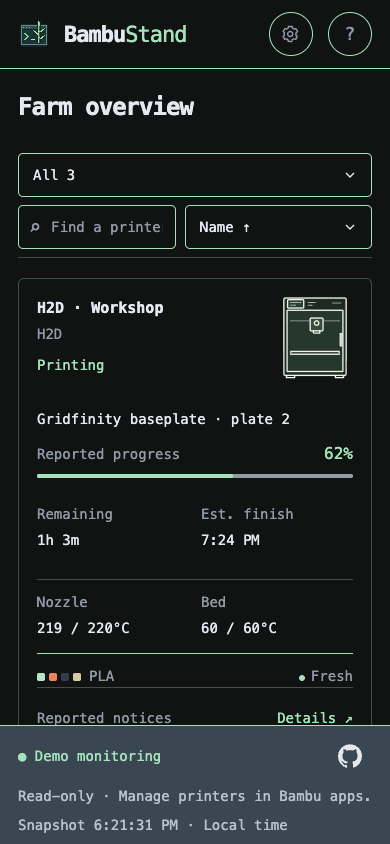
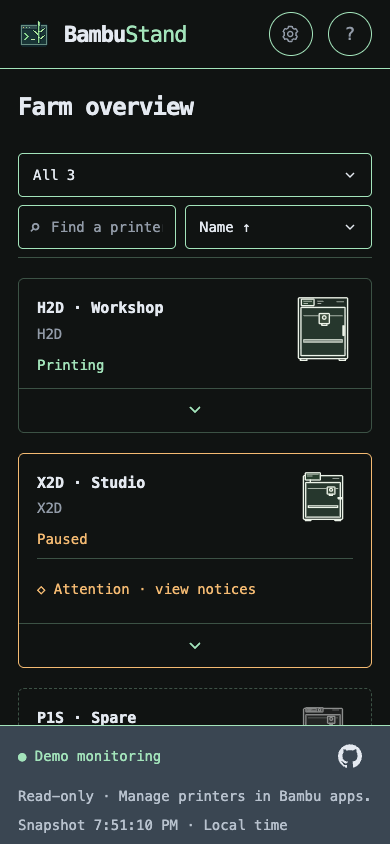
Add expandable mobile printer cards for v0.11.0 (#188)
* Add expandable mobile printer cards for v0.11.0

* Associate mobile disclosure with revealed card actions

* Move mobile card disclosure into a compact footer

* Preserve visible focus through mobile disclosure and resize

* Transfer card focus when responsive controls become hidden

diff --git a/internal/webserver/assets/app.js b/internal/webserver/assets/app.js
@@ -27,6 +27,8 @@ const detailTabs = ["status", "filament", "notices"];
 let detailTab = "status", detailScroll = {};
 let selectedSlot = null, readingExpanded = false, detailIdentity = "";
 let restoringCardFocus = false;
+// Browser-local presentation only; retained while filtering/sorting this page.
+const expandedCards = new Set();
 let detailOpener = null;
 let csrfToken = null;
 let snapshot = null,
@@ -124,17 +126,20 @@ function card(p) {
   const offline = p.online === false;
   const label = offline ? "Offline" : status(p);
   const action = (text, kind = "name") => `<button data-action="${kind}" data-open="${escapeHTML(p.id)}" aria-haspopup="dialog"${kind === "notices" ? ' data-notices="true"' : ''}>${text}</button>`;
+  const expanded = expandedCards.has(p.id);
+  const bodyID = `card-body-${encodeURIComponent(p.id)}`;
+  const toggle = `<button class="card-toggle" data-action="expand" data-open="${escapeHTML(p.id)}" aria-expanded="${expanded}" aria-controls="${escapeHTML(bodyID)} ${escapeHTML(bodyID)}-actions" aria-label="${expanded ? "Collapse" : "Expand"} ${escapeHTML(p.name)} card"><svg viewBox="0 0 12 8" aria-hidden="true"><path d="m1 1 5 5 5-5"/></svg></button>`;
   const heading = `<div class="card-head"><div class="card-identity"><h3>${action(escapeHTML(p.name))}</h3><div class="model">${escapeHTML(p.model || "Unknown model")}</div><span class="pill ${p.attention || !current(p) ? "warn" : p.state === "IDLE" ? "neutral" : ""}">${escapeHTML(label)}</span></div><div class="printer-view">${machine(p)}</div></div>`;
-  const actions = `<div class="card-actions">${p.attention ? action('◇ Attention · view notices', 'notices') : `<span>${p.conditions.some(condition => !condition.hidden) ? 'Reported notices' : 'No active notices'}</span>`}${action('Details ↗', 'details')}</div>`;
-  const opening = `<article class="card ${p.attention ? "warning" : ""}${offline ? " offline" : ""}" data-id="${escapeHTML(p.id)}" tabindex="-1" aria-label="Inspect ${escapeHTML(p.name)}, ${escapeHTML(label)}">`;
-  if (offline) return `${opening}${heading}${actions}</article>`;
+  const actions = `<div class="card-actions" id="${escapeHTML(bodyID)}-actions">${p.attention ? action('◇ Attention · view notices', 'notices') : `<span>${p.conditions.some(condition => !condition.hidden) ? 'Reported notices' : 'No active notices'}</span>`}${action('Details ↗', 'details')}</div>`;
+  const opening = `<article class="card ${p.attention ? "warning" : ""}${offline ? " offline" : ""}${expanded ? " expanded" : ""}" data-id="${escapeHTML(p.id)}" tabindex="-1" aria-label="Inspect ${escapeHTML(p.name)}, ${escapeHTML(label)}">`;
+  if (offline) return `${opening}${heading}<div class="card-body" id="${escapeHTML(bodyID)}"></div>${actions}${toggle}</article>`;
   const slots = allSlots(p).filter((s) => s.present !== false),
     nozzle = p.nozzles.find((n) => n.active) || p.nozzles[0];
   const progress = Number.isFinite(p.progress) ? Math.max(0, Math.min(100, p.progress)) : null;
   const idle = p.state === "IDLE";
   const finish = p.state === "RUNNING" && p.remaining != null && Number.isFinite(Date.parse(p.remaining_reported))
     ? new Date(Date.parse(p.remaining_reported) + p.remaining * 60000).toLocaleTimeString(undefined, {hour: "numeric", minute: "2-digit"}) : "Unavailable";
-  return `${opening}${heading}${!current(p) ? '<p class="card-note telemetry-note">Current state unconfirmed · readings are last-known; missing values remain unknown.</p>' : ""}<div class="job">${idle ? "No active print" : escapeHTML(p.job || "No reported job")}</div>${idle ? "" : `<div class="progress-label"><span>Reported progress</span><strong>${progress === null ? "Unknown" : progress + "%"}</strong></div><div class="progress-track"><span style="width:${progress || 0}%"></span></div><div class="metrics timing"><div>Remaining<strong>${escapeHTML(remaining(p))}</strong></div><div>Est. finish<strong>${finish !== "Unavailable" && (!current(p) || !p.eta_current) ? "Last-known: " : ""}${escapeHTML(finish)}</strong></div></div>`}<div class="metrics"><div>Nozzle<strong>${temperature(nozzle?.temperature)}</strong></div><div>Bed<strong>${temperature(p.bed)}</strong></div></div><div class="card-bottom"><div class="swatches">${slots.slice(0, 4).map(s => swatch(s.color)).join("")}<span>${escapeHTML(slots[0]?.material || "Unknown material")}</span></div><span>${current(p) ? '<i class="green"></i>Fresh' : "◷ Last-known"}</span></div>${actions}</article>`;
+  return `${opening}${heading}${!current(p) ? '<p class="card-note telemetry-note">Current state unconfirmed · readings are last-known; missing values remain unknown.</p>' : ""}<div class="card-body" id="${escapeHTML(bodyID)}"><div class="job">${idle ? "No active print" : escapeHTML(p.job || "No reported job")}</div>${idle ? "" : `<div class="progress-label"><span>Reported progress</span><strong>${progress === null ? "Unknown" : progress + "%"}</strong></div><div class="progress-track"><span style="width:${progress || 0}%"></span></div><div class="metrics timing"><div>Remaining<strong>${escapeHTML(remaining(p))}</strong></div><div>Est. finish<strong>${finish !== "Unavailable" && (!current(p) || !p.eta_current) ? "Last-known: " : ""}${escapeHTML(finish)}</strong></div></div>`}<div class="metrics"><div>Nozzle<strong>${temperature(nozzle?.temperature)}</strong></div><div>Bed<strong>${temperature(p.bed)}</strong></div></div><div class="card-bottom"><div class="swatches">${slots.slice(0, 4).map(s => swatch(s.color)).join("")}<span>${escapeHTML(slots[0]?.material || "Unknown material")}</span></div><span>${current(p) ? '<i class="green"></i>Fresh' : "◷ Last-known"}</span></div></div>${actions}${toggle}</article>`;
 }
 // Keep connected card/image elements across polls. Replacing #cards.innerHTML
 // recreates lazy, async-decoded images even when their immutable URL is unchanged.
@@ -493,6 +498,27 @@ document.addEventListener("keydown", (event) => {
   selectDetailTab(detailTabs[next], true);
 });
 document.addEventListener("click", (event) => {
+  const toggle = event.target.closest(".card-toggle");
+  if (toggle) {
+    const id = toggle.dataset.open;
+    if (expandedCards.has(id)) expandedCards.delete(id);
+    else expandedCards.add(id);
+    render();
+    // Explicit keyboard disclosure is navigation; passive telemetry renders are not.
+    if (event.detail === 0) requestAnimationFrame(() => {
+      const target = document.querySelector(`button[data-open="${CSS.escape(id)}"][data-action="expand"]`);
+      if (document.activeElement !== target) return;
+      target.scrollIntoView({block: "nearest", inline: "nearest"});
+      requestAnimationFrame(() => {
+        const shell = $(".shell"), toolbar = $(".toolbar");
+        if (document.activeElement !== target || !shell || !toolbar || shell.classList.contains("toolbar-scrolls")) return;
+        const top = Math.max(shell.getBoundingClientRect().top, toolbar.getBoundingClientRect().bottom) + 8;
+        const focusedTop = target.getBoundingClientRect().top;
+        if (focusedTop < top) shell.scrollTop += focusedTop - top;
+      });
+    });
+    return;
+  }
   const tab = event.target.closest("[data-detail-tab]");
   if (tab) { selectDetailTab(tab.dataset.detailTab, true); return; }
   const slot = event.target.closest("[data-slot-key]");
@@ -549,7 +575,11 @@ $("#detail").addEventListener("close", () => {
       ? `button[data-open="${CSS.escape(opener.printer)}"][data-action="${CSS.escape(opener.action)}"]`
       : `.card[data-id="${CSS.escape(opener.printer)}"]`)
     : opener?.element?.isConnected ? opener.element : null;
-  (target || activeFilterControl())?.focus({preventScroll: true});
+  const visibleTarget = target?.getClientRects().length ? target : null;
+  const name = target && opener?.printer
+    ? document.querySelector(`button[data-open="${CSS.escape(opener.printer)}"][data-action="name"]`) : null;
+  const visibleName = name?.getClientRects().length ? name : null;
+  (visibleTarget || visibleName || activeFilterControl())?.focus({preventScroll: true});
   detailOpener = null;
 });
 $("#close-detail").onclick = () => $("#detail").close();
@@ -601,6 +631,13 @@ function setupWorkspaceLayout() {
   // Reflow can change header, toolbar, and footer heights (including 200% text).
   const observer = new ResizeObserver(measure);
   for (const element of [shell, header, toolbar]) observer.observe(element);
+  // Responsive CSS can blur an action before the resize event runs.
+  shell.addEventListener("focusout", event => {
+    const action = event.target.closest("button[data-open]");
+    if (!action || event.relatedTarget || !action.isConnected || action.getClientRects().length) return;
+    const name = action.closest(".card")?.querySelector('[data-action="name"]');
+    if (name?.getClientRects().length) name.focus();
+  });
   shell.addEventListener("focusin", event => {
     const card = event.target.closest(".card");
     if (!card || restoringCardFocus) return;

diff --git a/internal/webserver/assets/index.html b/internal/webserver/assets/index.html
@@ -185,7 +185,7 @@
         The Filament tab shows per-unit reported drying status and remaining minutes. Missing values stay unknown; old readings are last-known. Drying settings describe configuration, and the original AMS has no active dryer. Monitoring cannot start or stop drying.
       </p>
       <p>
-        Filters and sorting preserve your printer selection as updates arrive. The Active filter includes printers last reported as running, independently of availability. The Idle filter includes only currently available online printers explicitly reporting Idle or Finished. Offline, stale, missing, and unknown states are excluded; a finished job does not establish that the build plate is clear. Search matches printer names and models. Each status count reflects that search independently of the selected status. On narrow screens, use the Status selector.
+        Filters and sorting preserve your printer selection as updates arrive. The Active filter includes printers last reported as running, independently of availability. The Idle filter includes only currently available online printers explicitly reporting Idle or Finished. Offline, stale, missing, and unknown states are excluded; a finished job does not establish that the build plate is clear. Search matches printer names and models. Each status count reflects that search independently of the selected status. On narrow screens, use the Status selector. Cards start collapsed; use the small footer chevron to expand inline readings or collapse them again. Expansion choices last for this page session, including updates, filtering, sorting, and resizing. Keyboard expansion and collapse keep the focused footer in view. If resizing hides the focused chevron or Details button, focus moves to that printer name. If resizing hides Details while inspection is open, closing returns focus to the printer name. Desktop shows full cards. Attention and unavailable-data warnings remain visible when collapsed; the printer name opens Overview.
       </p>
       <p>
         Scrolling the farm compacts the header. The filter, search, and sort toolbar

diff --git a/internal/webserver/assets/style.css b/internal/webserver/assets/style.css
@@ -1417,3 +1417,21 @@ footer { gap: 8px 16px; padding: 8px 32px; font-size: .875rem; }
 @media (max-height: 360px) {
   #detail #close-detail { width: 44px; height: 44px; }
 }
+
+/* Mobile cards disclose telemetry without changing desktop presentation. */
+.card-body { display: flex; flex-direction: column; min-width: 0; }
+.card-toggle { display: none; }
+@media (max-width: 760px) {
+  .card-head { grid-template-columns: minmax(0, 1fr) 60px; gap: 8px; margin-bottom: 0; }
+  .card-head .printer-view, .card-head .printer-view .printer-sprite,
+  .card-head .printer-view svg { width: 60px; height: 76px; }
+  .card-toggle { display: inline-flex; align-items: center; justify-content: center; width: calc(100% + 36px); min-height: 44px; margin: 12px -18px -18px; padding: 0; background: none; border: 0; border-top: 1px solid color-mix(in srgb, var(--border) 30%, transparent); border-radius: 0 0 5px 5px; color: var(--green); }
+  .card-toggle svg { width: 12px; height: 8px; fill: none; stroke: currentColor; stroke-width: 2; }
+  .card.expanded .card-toggle svg { transform: rotate(180deg); }
+  .card:not(.expanded) .card-body,
+  .card:not(.expanded) .card-actions > span,
+  .card:not(.expanded) [data-action="details"] { display: none; }
+  .card:not(.expanded):not(.warning) .card-actions { display: none; }
+  .card.expanded .card-body { margin-top: 16px; }
+  .card.warning .card-actions { margin-top: 8px; }
+}

diff --git a/internal/buildinfo/buildinfo.go b/internal/buildinfo/buildinfo.go
@@ -4,7 +4,7 @@ import "fmt"
 
 // Release builds inject these through -ldflags. Direct go builds remain useful.
 var (
-	Version = "0.10.1"
+	Version = "0.11.0"
 	Commit  = "unknown"
 	Date    = "unknown"
 )

diff --git a/docs/development/validation.md b/docs/development/validation.md
@@ -7,11 +7,39 @@ This record identifies checks actually performed, their source revisions, observ
 Historical entries were consolidated from the [record at `2e9f74a`](https://github.com/cliffom/bambustand/blob/2e9f74a/docs/development/validation.md). Consolidation adds no new product validation. A local pass reported below is a historical report, not a retained test log or a rerun against the current release. Linked CI runs and repository captures are inspectable evidence; temporary capture paths and user-supplied screenshots without repository links were not archived here. Missing environment or revision details are stated rather than reconstructed. Historical names and compatibility results apply to the revision checked.
 
 
+## Responsive card focus transfer (PR #188 review)
+
+- **Scope:** 2026-11-13; v0.11.0, uncommitted changes based on `430cefa996b1`. Resolves the follow-up P2 finding that crossing the mobile breakpoint can hide the focused chevron or Details action and reset browser focus to the body.
+- **Method:** Same macOS 27.2.1 arm64, Go 1.27.4, Node 24.22.1, Playwright 1.64.1 and Chrome 157.0.8103.78 environment as the prior focus entry below; synthetic demo on port 8187. Extended the four disclosure cases (390×844, 760×844, 320×568/200%, 568×320/200%) with focused-footer → 844×390 desktop/name, focused desktop Details → collapsed mobile/name, subsequent polling, still-visible expanded Details, and unrelated search focus. Ran all 51 browser units, 36 existing layout cases plus two compact/four disclosure cases, twelve inspector cases, `make fmt-check lint test check build` with pinned lint, `make docs-check` and diff checks. Visually inspected post-resize name-focus captures at 390×844 and 320×568/200% for the same printer, visible focus and usable card layout.
+- **Result:** The new mobile-to-desktop regression timed out against the previous head. All final checks passed. Hidden connected card actions now transfer focus to their printer name on blur; visible actions and search keep focus, expansion choices survive resizing, polling preserves the fallback, and modal resize/close regressions still pass. Updated usage, browser Help, UI direction and contributor guidance. README, farm-view guidance, changelog and maintained browser/TUI screenshots remain accurate because these fixes only alter focus recovery at a breakpoint; their card layouts, readings and controls are unchanged, and they do not depict focus on a control being hidden. v0.11.0 remains prepared without another version bump.
+- **Limits:** Synthetic Chromium evidence only; other browser engines, physical mobile devices and live hardware remain unverified. Temporary logs/captures under `/private/tmp/188-resize-*` are unarchived. Prior packaging/vulnerability evidence retains its revision boundaries; dependencies and packaging are unchanged. Existing [remaining live checks](#remaining-live-checks) retain their scope.
+
+## Mobile disclosure and inspector focus corrections (PR #188 review)
+
+- **Scope:** 2026-11-13; v0.11.0, uncommitted review fixes based on `d274548b2015`. Addresses the conversation review’s two P2 findings: keyboard disclosure can move the focused footer behind the status bar, and closing after desktop-to-mobile resize can attempt focus on a hidden Details opener.
+- **Method:** macOS 27.2.1 arm64, Go 1.27.4, Node 24.22.1, Playwright 1.64.1, Chrome 157.0.8103.78, synthetic demo on port 8187. Added actual focus/viewport bounds after keyboard expansion and collapse in the four disclosure cases (390×844, 760×844, 320×568/200%, 568×320/200%), and a desktop Details → mobile resize → Escape/name-focus regression in all twelve inspector size/text cases. Ran 51 browser units, the 36 existing layout cases plus two compact/four disclosure cases, all twelve inspector cases, `make fmt-check lint test check build` with pinned lint, `make docs-check` and diff checks. Visually inspected temporary keyboard-focused captures at 390×844, 320×568/200% and 568×320/200% for footer visibility above the status bar and below pinned controls.
+- **Result:** Both new regressions failed against the previous head: disclosure focus bounds timed out, and inspector close left focus on the body. All final checks passed. Keyboard disclosure explicitly reveals its footer after reflow; passive monitoring renders retain their existing scroll behavior. Hidden openers fall back to the same printer name; removed actions retain the existing status-control fallback, verified by the inspector suite after catching an intermediate fallback regression. Updated usage, browser Help, UI direction and contributor test guidance. README, farm-view guide, changelog and current desktop/mobile/theme/Settings/inspector/TUI captures remain accurate: these fixes change navigation/scroll recovery rather than card geometry, shown readings or controls. The maintained expanded capture already shows the footer visible above the status bar; no timestamp-only regeneration is needed. v0.11.0 remains the prepared release version.
+- **Limits:** Synthetic Chromium evidence only; Safari/Firefox, physical mobile devices and live hardware remain unverified. Temporary logs/captures under `/private/tmp/188-resolve-*` are unarchived. Packaging/signing and vulnerability evidence remain scoped to the prior entries; these fixes do not alter packaging or dependencies. Existing [remaining live checks](#remaining-live-checks) retain their scope.
+
+## Mobile card footer refinement (#187)
+
+- **Scope:** 2026-11-13; v0.11.0 PR #188 follow-up to the owner's screenshot, with uncommitted changes based on `db8e7efecfa0`. Moves mobile disclosure from a boxed control beside the printer image to a full-width bottom footer with a small centered SVG chevron. Desktop stays unchanged.
+- **Method:** Same macOS 27.2.1, Go 1.27.4, Node 24.22.1, Playwright 1.64.1 and Chrome 157.0.8103.78 environment as the entry below; synthetic demo at port 8187. Reran 51 browser units, 36 layout cases plus two compact and four disclosure cases, twelve inspector cases, and 28 theme/layout combinations at the sizes/text settings listed below. Added assertions that the footer is the last card child, below the heading, centered across the card, with a 12×8px icon and at least a 44px tap height. Ran formatting, pinned lint, vet, build, release packaging, documentation and diff checks. Refreshed and visually inspected all four 390×844 mobile captures, including expanded footer visibility and the Gruvbox Dark finished card.
+- **Result:** All checks passed. The small chevron points down when collapsed and up when expanded; the unboxed footer retains keyboard focus, accessible labels/state, touch sizing, warnings and page-session expansion choices. Current captures: [overview](../../assets/screenshots/browser-mobile.png), [expanded footer](../../assets/screenshots/browser-mobile-expanded.png), [offline](../../assets/screenshots/browser-mobile-offline.png), [finished](../../assets/screenshots/browser-idle-filter-mobile.png). Earlier captures remain under `before-footer` names with historical links redirected. README, farm-view/usage guidance, browser Help, UI direction and changelog now describe the footer; desktop/theme/filter, cropped Settings/inspector and TUI captures remain accurate because they do not depict this mobile control. v0.11.0 remains prepared and unpublished; no additional version bump is needed.
+- **Limits:** Synthetic Chromium evidence only; other browsers, physical mobile devices and live hardware remain unverified. Full race tests and vulnerability scan passed on the prior implementation as recorded below; this refinement changes browser markup/style only. Packaging remains locally ad-hoc signed without notarization or Gatekeeper evidence. Temporary logs are unarchived; existing [remaining live checks](#remaining-live-checks) are unchanged.
+
+## Mobile printer card disclosure (#187)
+
+- **Scope:** 2026-11-13; v0.11.0, uncommitted changes based on `dd52e549d139`. Mobile/narrow browser cards default to identity/status summaries with inline expansion; desktop presentation, telemetry interpretation, offline omissions and notice decisions retain their existing contracts.
+- **Method:** macOS 27.2.1 (26B131) arm64, Go 1.27.4, Node 24.22.1, Playwright 1.64.1 and Chrome 157.0.8103.78. Ran 51 dependency-free browser units, 36 existing layout cases plus two compact scenarios, four new disclosure scenarios (390×844, 760×844, 320×568/200%, 568×320/200%), twelve inspector cases, and 28 theme/layout combinations against synthetic `serve --demo` on port 8187. Disclosure checks cover running, idle, finished, attention, unknown/stale, offline, long names, generic artwork, keyboard activation, focus/image continuity, polling, filtering, sorting, resize and inspector entry. Ran `make fmt-check`, pinned lint, `make test check build vuln-check release`, `make docs-check`, version output and diff checks. Refreshed the three affected 390×844 gallery captures and added an expanded example with the documented capture command/filter; inspected all four. Also inspected temporary 320×568/200% collapsed and 568×320/200% expanded views, and a contact sheet of default/all five alternate desktop theme captures at 1280×1200.
+- **Result:** All listed checks passed; no lint findings or known vulnerabilities. Mobile summaries retain attention and unavailable-data warnings, and expansion remains local to printer identity within the page session. Four macOS/Linux arm64/amd64 archives passed inventory, documentation, helper architecture and signature checks; the binary reports 0.11.0. Initial lint stopped because the executable was absent; installing the pinned tool resolved it. Initial packaging rejected the new changelog heading's leading `v`; matching the repository heading format resolved it. Updated README, usage/farm-view guidance, browser Help, UI direction and contributor guidance. Current captures: [mobile overview](../../assets/screenshots/browser-mobile-before-footer.png), [expanded](../../assets/screenshots/browser-mobile-expanded-before-footer.png), [offline](../../assets/screenshots/browser-mobile-offline-before-footer.png), [Gruvbox Dark Idle](../../assets/screenshots/browser-idle-filter-mobile-before-footer.png). Preserved prior mobile captures under `before-187` names and redirected affected historical evidence. Desktop/theme/filter captures remain accurate because full cards and controls retain their presentation; cropped Settings/inspector and TUI help/captures do not depict mobile farm disclosure and remain accurate.
+- **Limits:** Synthetic Chromium checks only; Safari/Firefox, physical mobile devices, live cloud/hardware and OS notification presentation remain unverified. Enlarged text in very short/narrow windows requires the existing page/workspace scrolling fallback; inspection does not establish every scroll position or font. Temporary logs and additional inspection captures under `/private/tmp/187-*` are unarchived. Packaging is locally ad-hoc signed, without notarization or clean-machine Gatekeeper evidence; no release is published. Existing [remaining live checks](#remaining-live-checks) retain their scope.
+
 ## Status toolbar spacing and mobile label refinement (#185)
 
 - **Scope:** 2026-11-13; v0.10.1 follow-up to the owner's desktop/mobile screenshots, with uncommitted changes based on `b1366a85ad4c`. Adds 0.75rem horizontal padding to desktop status buttons and hides the mobile Status label visually while retaining its accessible name.
 - **Method:** Same macOS 27.2.1, Go 1.27.4, Node 24.22.1, Playwright 1.64.1 and Chrome 157.0.8103.78 environment as the entry below. Ran all 50 browser units, the 36 layout cases plus two compact scenarios and 28 theme/layout combinations using the same sizes/states/themes listed below. Added checks for desktop horizontal padding, accessible Status naming, a visually hidden label and full-width mobile dropdown alignment. Built the embedded assets and reran `make release`, `make docs-check` and diff checks. Port 8080 was occupied by a non-demo server; acceptance/capture scripts refused that endpoint, then ran against synthetic `serve --demo` at port 8185. Refreshed the same twelve affected gallery images with the documented capture tool/filter and visually inspected all twelve for spacing, counts, mobile width, focus outlines and clipping.
-- **Result:** Browser units, layout/theme cases, packaging and documentation checks passed. Desktop labels/counts have more separation; mobile status selection uses the full row without a visible prefix, with its accessible Status name retained. Updated usage/UI direction and release notes; representative captures are [desktop](../../assets/screenshots/browser.png), [mobile](../../assets/screenshots/browser-mobile.png) and [mobile Idle](../../assets/screenshots/browser-idle-filter-mobile.png). Earlier results below retain their referenced pre-spacing captures. README caption, browser Help, cropped Settings/inspector captures, TUI help/captures and farm-view guidance remain accurate because none promise a visible Status prefix or specific button spacing. v0.10.1 remains the prepared release version.
+- **Result:** Browser units, layout/theme cases, packaging and documentation checks passed. Desktop labels/counts have more separation; mobile status selection uses the full row without a visible prefix, with its accessible Status name retained. Updated usage/UI direction and release notes; representative captures are [desktop](../../assets/screenshots/browser.png), [mobile](../../assets/screenshots/browser-mobile-before-187.png) and [mobile Idle](../../assets/screenshots/browser-idle-filter-mobile-before-187.png). Earlier results below retain their referenced pre-spacing captures. README caption, browser Help, cropped Settings/inspector captures, TUI help/captures and farm-view guidance remain accurate because none promise a visible Status prefix or specific button spacing. v0.10.1 remains the prepared release version.
 - **Limits:** Synthetic Chromium evidence only; other browsers, real mobile devices and live hardware remain unverified. Packaging remains locally ad-hoc signed without notarization/Gatekeeper evidence. Temporary acceptance logs/captures under `/private/tmp/185-spacing-*` are unarchived; existing [remaining live checks](#remaining-live-checks) are unchanged.
 
 ## Browser status labels and circular totals (#185)

diff --git a/docs/development/contributing.md b/docs/development/contributing.md
@@ -86,9 +86,9 @@ For UI and operator-visible behavior changes, complete the [documentation and sc
 
 For browser changes, run `node --test tools/test-browser-notices.cjs tools/test-browser-notifications.cjs tools/test-browser-themes.cjs` with Node.js 18 or newer (also run by Formatting and lint CI). These dependency-free tests exercise the dashboard script with a minimal DOM stand-in; use a real browser separately to inspect layout and keyboard behavior.
 
-For dashboard/filter/status-bar layout regressions, start `./bin/bambustand serve --demo --config /tmp/bambu-layout.toml` with an unused demo configuration path, then run `node tools/test-browser-layout.cjs`. This optional real-browser check requires Playwright (`npm install --prefix /tmp/bambu-browser playwright@1.64.1`, then set `NODE_PATH=/tmp/bambu-browser/node_modules`) and a compatible Chromium installation (`/tmp/bambu-browser/node_modules/.bin/playwright install chromium`, or set `BROWSER_PATH` to an installed Chrome executable). Set `DEMO_URL` for a non-default demo port and `SCREENSHOT_DIR` to save screenshots. It checks shortened status labels, circular count bounds (including zero and multi-digit totals), search-aware status counts and mobile selector parity, query/status recovery, separate Details/Notices actions, reduced motion, empty/single/24-printer fixtures, idle/finished membership and attention overlap, feed loss/recovery, focused-card fallback, image continuity, scrolling/polling, header collapse/restoration at and near the scroll limit, toolbar pinning and small-workspace fallback, pinned-control focus, telemetry reflow anchoring and focus restoration, filtering, dialogs and keyboard focus at desktop/mobile widths, short landscape heights, and 200% root text size, including the page-scrolling fallback with the outer page already scrolled when header/footer space is insufficient; it rejects non-demo servers. It is separate from the dependency-free CI tests.
+For dashboard/filter/status-bar layout regressions, start `./bin/bambustand serve --demo --config /tmp/bambu-layout.toml` with an unused demo configuration path, then run `node tools/test-browser-layout.cjs`. This optional real-browser check requires Playwright (`npm install --prefix /tmp/bambu-browser playwright@1.64.1`, then set `NODE_PATH=/tmp/bambu-browser/node_modules`) and a compatible Chromium installation (`/tmp/bambu-browser/node_modules/.bin/playwright install chromium`, or set `BROWSER_PATH` to an installed Chrome executable). Set `DEMO_URL` for a non-default demo port and `SCREENSHOT_DIR` to save screenshots. It checks mobile card disclosure across states, keyboard expansion/collapse with focus bounds above the status bar and below pinned controls, polling/filter/sort/resize retention, same-printer focus transfer for hidden responsive controls without stealing visible/search focus, and inspector access, shortened status labels, circular count bounds (including zero and multi-digit totals), search-aware status counts and mobile selector parity, query/status recovery, separate Details/Notices actions, reduced motion, empty/single/24-printer fixtures, idle/finished membership and attention overlap, feed loss/recovery, focused-card fallback, image continuity, scrolling/polling, header collapse/restoration at and near the scroll limit, toolbar pinning and small-workspace fallback, pinned-control focus, telemetry reflow anchoring and focus restoration, filtering, dialogs and keyboard focus at desktop/mobile widths, short landscape heights, and 200% root text size, including the page-scrolling fallback with the outer page already scrolled when header/footer space is insufficient; it rejects non-demo servers. It is separate from the dependency-free CI tests.
 
-With that demo server and Playwright environment, run `node tools/test-browser-inspector.cjs` for Overview/Filament/Notices keyboard navigation, selected-slot identity/removal, expanded Reading details, long printer/job names and unknown progress, independent time estimates, fixed controls and panel scrolling, telemetry/focus retention, populated/empty/all-hidden notices, local hiding/save feedback, reported drying/zero/unsupported states and independent aging, unavailable filament/status, opening/reopening selected-tab visibility, action identity through idle-to-running card replacement and repeated notification re-entry, and close/reopen/attention entry points across twelve desktop/mobile/short-window and 200% text combinations. `SCREENSHOT_DIR` saves each panel at each size. Like the other layout checks, it uses synthetic fixtures and establishes Chromium behavior only.
+With that demo server and Playwright environment, run `node tools/test-browser-inspector.cjs` for Overview/Filament/Notices keyboard navigation, selected-slot identity/removal, expanded Reading details, long printer/job names and unknown progress, independent time estimates, fixed controls and panel scrolling, telemetry/focus retention, populated/empty/all-hidden notices, local hiding/save feedback, reported drying/zero/unsupported states and independent aging, unavailable filament/status, opening/reopening selected-tab visibility, action identity through idle-to-running card replacement and repeated notification re-entry, hidden Details opener fallback after desktop-to-mobile resize, and close/reopen/attention entry points across twelve desktop/mobile/short-window and 200% text combinations. `SCREENSHOT_DIR` saves each panel at each size. Like the other layout checks, it uses synthetic fixtures and establishes Chromium behavior only.
 
 With the same synthetic server and Playwright environment, run `node tools/test-browser-theme-layout.cjs` to verify Follow host and all bundled themes at 1280×800, 390×844, 320×568 with 200% text, and 568×320 with 200% text. It checks theme role mapping, native form color scheme, selected/primary/warning/footer/count-badge contrast for bundled themes, job/temperature/selected-slot text contrast, theme-independent filament colors, Settings and printer-dialog overflow, focus return, sprite continuity, and reload persistence. `SCREENSHOT_DIR` saves theme-specific farm/Settings/inspector captures. Use a custom `theme_file` or `serve --theme` to inspect host inheritance. These checks establish Chromium behavior, not Safari/Firefox or actual mobile presentation.
 

diff --git a/docs/development/ui-direction.md b/docs/development/ui-direction.md
@@ -85,7 +85,7 @@ Compact the branding/Settings/Help header when the farm workspace scrolls down a
 
 Use one primary browser status toolbar (All, Active, Idle, Attention, Unavailable), with search and sort. Counts intersect each status predicate with the current name/model search independently of the selected status. Clearing search restores farm-wide counts. Put every desktop status total in a circular, theme-colored outline badge, with room for zero and multi-digit totals at enlarged text sizes. Give desktop status buttons horizontal padding to separate neighboring labels and badges. On narrow screens show a full-width Status selector instead of the desktop buttons, with identical counts and a visually hidden accessible label. Status and Sort use consistently sized, centered, inset chevrons with reserved text space. Omit whole-farm summary panels and visible duplicate result counts; announce results through a visually hidden live region. Keep snapshot/local-time metadata in the footer. Idle includes reported Idle or Finished and requires current telemetry, an available browser feed and a connected session; exclude unknown/offline/stale readings. Active retains last-reported running-state membership; attention may overlap other groups. Never claim physical readiness. Empty results explain the query/status intersection and offer Clear search and/or Show all statuses; restore focus to search or the visible status control. If a focused printer leaves the view, return focus to the visible active status control.
 
-Cards consolidate name, model and textual status on the left with top-aligned decorative artwork on the right. Keep idle cards short with No active print and available telemetry. Name and Details actions open Overview; the separate attention action opens Notices, as do system notifications. Keep action targets at least 44 CSS pixels at default text. Preserve each focused action and connected artwork across polls. Use restrained theme-derived borders. Keep the inspector tabs in a single horizontally scrollable row; all remain reachable by touch and keyboard. At narrow widths/enlarged text, omit decorative header art/model, constrain the scrollable title, and reserve space for readable panel content and Close. The approved [Design study 02](../reference/design/dashboard-study-02.html) is a synthetic visual reference, not production or hardware evidence.
+Cards consolidate name, model and textual status on the left with top-aligned decorative artwork on the right. At widths up to 760 CSS pixels, default to a collapsed identity/status summary with a small centered chevron in a full-width footer with an accessible 44px-high expand/collapse target; expanding reveals inline telemetry and Details. Preserve each printer’s expansion choice through polling, filtering, sorting and resizing within the page session; desktop always shows full cards. Keyboard expansion/collapse must keep the focused footer visible above the status bar and below pinned controls; passive telemetry updates retain scroll. When responsive layout hides a focused card action, transfer focus to the same printer’s visible name without changing expansion choices; preserve focus on controls that stay visible. When resizing hides an inspector’s original Details opener, return focus to the same printer’s visible name. Keep attention actions and current-state-unconfirmed warnings visible when collapsed, and retain name-to-Overview access. Explicitly offline cards remain free of telemetry even when expanded. Keep idle cards short with No active print and available telemetry. Name and Details actions open Overview; the separate attention action opens Notices, as do system notifications. Keep action targets at least 44 CSS pixels at default text. Preserve each focused action and connected artwork across polls. Use restrained theme-derived borders. Keep the inspector tabs in a single horizontally scrollable row; all remain reachable by touch and keyboard. At narrow widths/enlarged text, omit decorative header art/model, constrain the scrollable title, and reserve space for readable panel content and Close. The approved [Design study 02](../reference/design/dashboard-study-02.html) is a synthetic visual reference, not production or hardware evidence.
 
 For devices explicitly reported offline (`online === false`), show only name, model, decorative image/fallback, a textual Offline label, and any attention warning on the browser card. Omit job/progress, time estimates, temperatures, and material details. Use a dashed border and desaturated, dimmed image while retaining readable text, theme contrast, keyboard focus, and access to the inspector. Preserve image/card identity through online/offline transitions. Stale/missing telemetry and cloud/browser-feed disconnection do not independently select this layout; offline never establishes fault resolution.
 

diff --git a/docs/user/usage.md b/docs/user/usage.md
@@ -165,13 +165,17 @@ The **Notices** tab keeps reported conditions and local notice controls separate
 
 The [compact idle example](../../assets/screenshots/browser-idle.png) shows an A1 mini with No active print alongside printing and paused devices, without padding idle cards to printing height.
 
-The [scrolled desktop view](../../assets/screenshots/browser-scrolled.png) shows the compact header and pinned filter/search/sort toolbar at 1280 × 640. The toolbar also stays visible in the mobile offline-card view below.
+The [scrolled desktop view](../../assets/screenshots/browser-scrolled.png) shows the compact header and pinned filter/search/sort toolbar at 1280 × 640. The mobile offline-card view below shows the compact cards; the toolbar stays visible when scrolling reaches it.
 
 The [Appearance and notification settings](../../assets/screenshots/browser-themes.png) capture above shows the theme selector and Enable/Test/Disable controls with automatic browser notifications off. The [Idle filter](../../assets/screenshots/browser-idle-filter.png) and [mobile Status selector in Gruvbox Dark](../../assets/screenshots/browser-idle-filter-mobile.png) captures use a separate synthetic finished-printer scenario; it does not establish that a printer is physically ready.
 
-| Mobile overview | Mobile offline card after scrolling |
+On screens up to 760 CSS pixels wide, cards start collapsed to the name, model, image, and status. Use the small chevron in the card footer to expand or collapse inline readings; the choice stays with each printer during this page session, including filtering, sorting, updates, and resizing. Desktop shows full cards. Attention links and unavailable-data warnings remain visible when collapsed; the printer name still opens Overview. Keyboard expansion and collapse keep the focused footer in view. Resizing that hides the focused chevron or Details button moves focus to that printer’s name. If resizing hides the Details button while the inspector is open, closing returns focus to that printer’s name. Offline cards never add telemetry when expanded.
+
+[Expanded mobile card](../../assets/screenshots/browser-mobile-expanded.png) shows the inline readings.
+
+| Mobile overview | Mobile offline card |
 | --- | --- |
-| [![Browser overview at a 390 by 844 viewport](../../assets/screenshots/browser-mobile.png)](../../assets/screenshots/browser-mobile.png) | [![Focused offline printer card beneath the compact header and pinned mobile toolbar](../../assets/screenshots/browser-mobile-offline.png)](../../assets/screenshots/browser-mobile-offline.png) |
+| [![Browser overview at a 390 by 844 viewport](../../assets/screenshots/browser-mobile.png)](../../assets/screenshots/browser-mobile.png) | [![Focused offline printer card in the compact mobile overview](../../assets/screenshots/browser-mobile-offline.png)](../../assets/screenshots/browser-mobile-offline.png) |
 
 ### TUI Server Status
 

diff --git a/README.md b/README.md
@@ -22,7 +22,7 @@ A keyboard-driven workspace for your farm: move between printers, inspect job de
 
 ### Web browser dashboard
 
-A visual farm overview with searchable, filterable printer cards, model illustrations, progress, temperatures, and filament. Use Details or the printer name for an Overview with job progress, independent time estimates, and temperature tiles; inspect selectable AMS spool racks in Filament, or review reported conditions in Notices. Paused, stopped, canceled and confirmed finished prints have shared outcome summaries; individual codes and local decisions remain accessible. A separate attention action opens Notices. Status counts follow name/model search; phones use a Status selector. Unknown readings stay unknown. Stale readings are labeled last-known; offline cards show just printer identity and inactive artwork, with reading metadata and notices available through inspection.
+A visual farm overview with searchable, filterable printer cards, model illustrations, progress, temperatures, and filament. Use Details or the printer name for an Overview with job progress, independent time estimates, and temperature tiles; inspect selectable AMS spool racks in Filament, or review reported conditions in Notices. Paused, stopped, canceled and confirmed finished prints have shared outcome summaries; individual codes and local decisions remain accessible. A separate attention action opens Notices. Status counts follow name/model search; phones use a Status selector and compact printer cards with a footer chevron to expand inline readings. Unknown readings stay unknown. Stale readings are labeled last-known; offline cards show just printer identity and inactive artwork, with reading metadata and notices available through inspection.
 
 ![Browser dashboard with All, Active and Idle status tabs, circular totals, printing and paused printers, a simplified offline card, and the bottom status bar.](assets/screenshots/browser.png)
 

diff --git a/docs/user/farm-view.md b/docs/user/farm-view.md
@@ -53,7 +53,7 @@ Every sort first groups printers in this order:
 2. **Inactive / idle:** online printers with reported `IDLE` or `FINISH` state.
 3. **Offline:** devices reported offline, regardless of their last-known state.
 
-The selected sort applies within each group. The local web dashboard uses the same grouping with its Name, Attention, and State sorts; browser filters/sorts remain session-local. Grouping uses the device online flag and the existing reported state, independently of telemetry freshness or cloud connectivity. Stale states remain last-known, missing states remain unknown, and a disconnected cloud link does not infer that a printer is offline or idle. Telemetry and device updates refresh the ordering while preserving the selected printer's identity, panel focus, and details scroll.
+The selected sort applies within each group. The local web dashboard uses the same grouping with its Name, Attention, and State sorts; browser filters/sorts remain session-local. On narrow browser screens, printer cards start collapsed; the footer chevron reveals inline readings, while the name opens Overview. Attention links and unavailable-data warnings stay visible when collapsed. Grouping uses the device online flag and the existing reported state, independently of telemetry freshness or cloud connectivity. Stale states remain last-known, missing states remain unknown, and a disconnected cloud link does not infer that a printer is offline or idle. Telemetry and device updates refresh the ordering while preserving the selected printer's identity, panel focus, and details scroll.
 
 Unselected offline rows use the warning color (amber in the default theme). Selected offline rows use the theme's contrasting selection text/background colors. Offline rows show only the printer name and `Offline` link status; all telemetry columns are blank. Compact layouts show `Offline` in the state column because the link column is hidden.
 

diff --git a/docs/CHANGELOG.md b/docs/CHANGELOG.md
@@ -2,6 +2,11 @@
 
 Release changes and upgrade notes are recorded below. Names and scope describe each historical release; see [usage](user/usage.md) for current behavior and the [validation record](development/validation.md) for checked revisions, evidence and outstanding limitations.
 
+## 0.11.0 — Expandable mobile printer cards
+
+- Mobile browser cards start with printer identity, image, and textual status; an accessible footer chevron expands or collapses inline telemetry and Details.
+- Expansion choices follow printers through page-session updates, filtering, sorting, and resizing. Desktop cards stay fully visible; attention and unavailable-data warnings remain visible when collapsed, and offline cards retain their simplified presentation.
+
 ## 0.10.1
 
 - Shorten browser status tabs to All, Active and Idle, and separate desktop totals in circular badges. Desktop tabs have horizontal spacing, and the full-width mobile Status selector uses the same labels with an accessible, visually hidden label. Filter membership and search-aware counts are unchanged: Active means last reported running, and Idle includes currently available Idle or Finished printers without implying physical readiness. No configuration migration is required.
